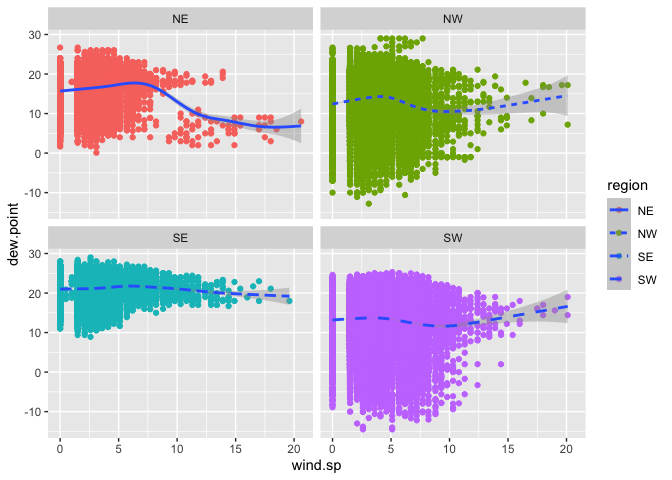
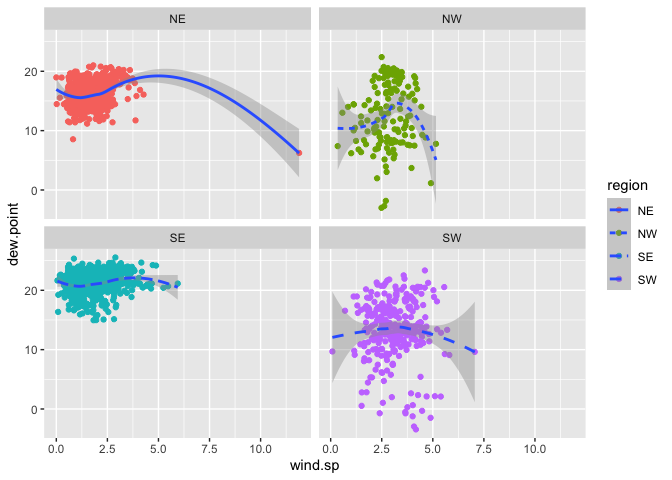
commit

diff --git a/lab04/lab04.md b/lab04/lab04.md
@@ -183,8 +183,11 @@ regression line by region Describe what you observe in the graph
 met_avg[!is.na(region) & !is.na(wind.sp)] %>% 
   ggplot(mapping = aes(x=wind.sp, y = dew.point)) + 
   geom_point(mapping = aes(color = region)) + 
-geom_smooth(mapping = aes(linetype = region), )
+geom_smooth(mmethod = lm, mapping = aes(linetype = region)) +
+facet_wrap (~ region, nrow=2)
 ```
+
+    ## Warning: Ignoring unknown parameters: mmethod
 
     ## `geom_smooth()` using method = 'gam' and formula 'y ~ s(x, bs = "cs")'
 
